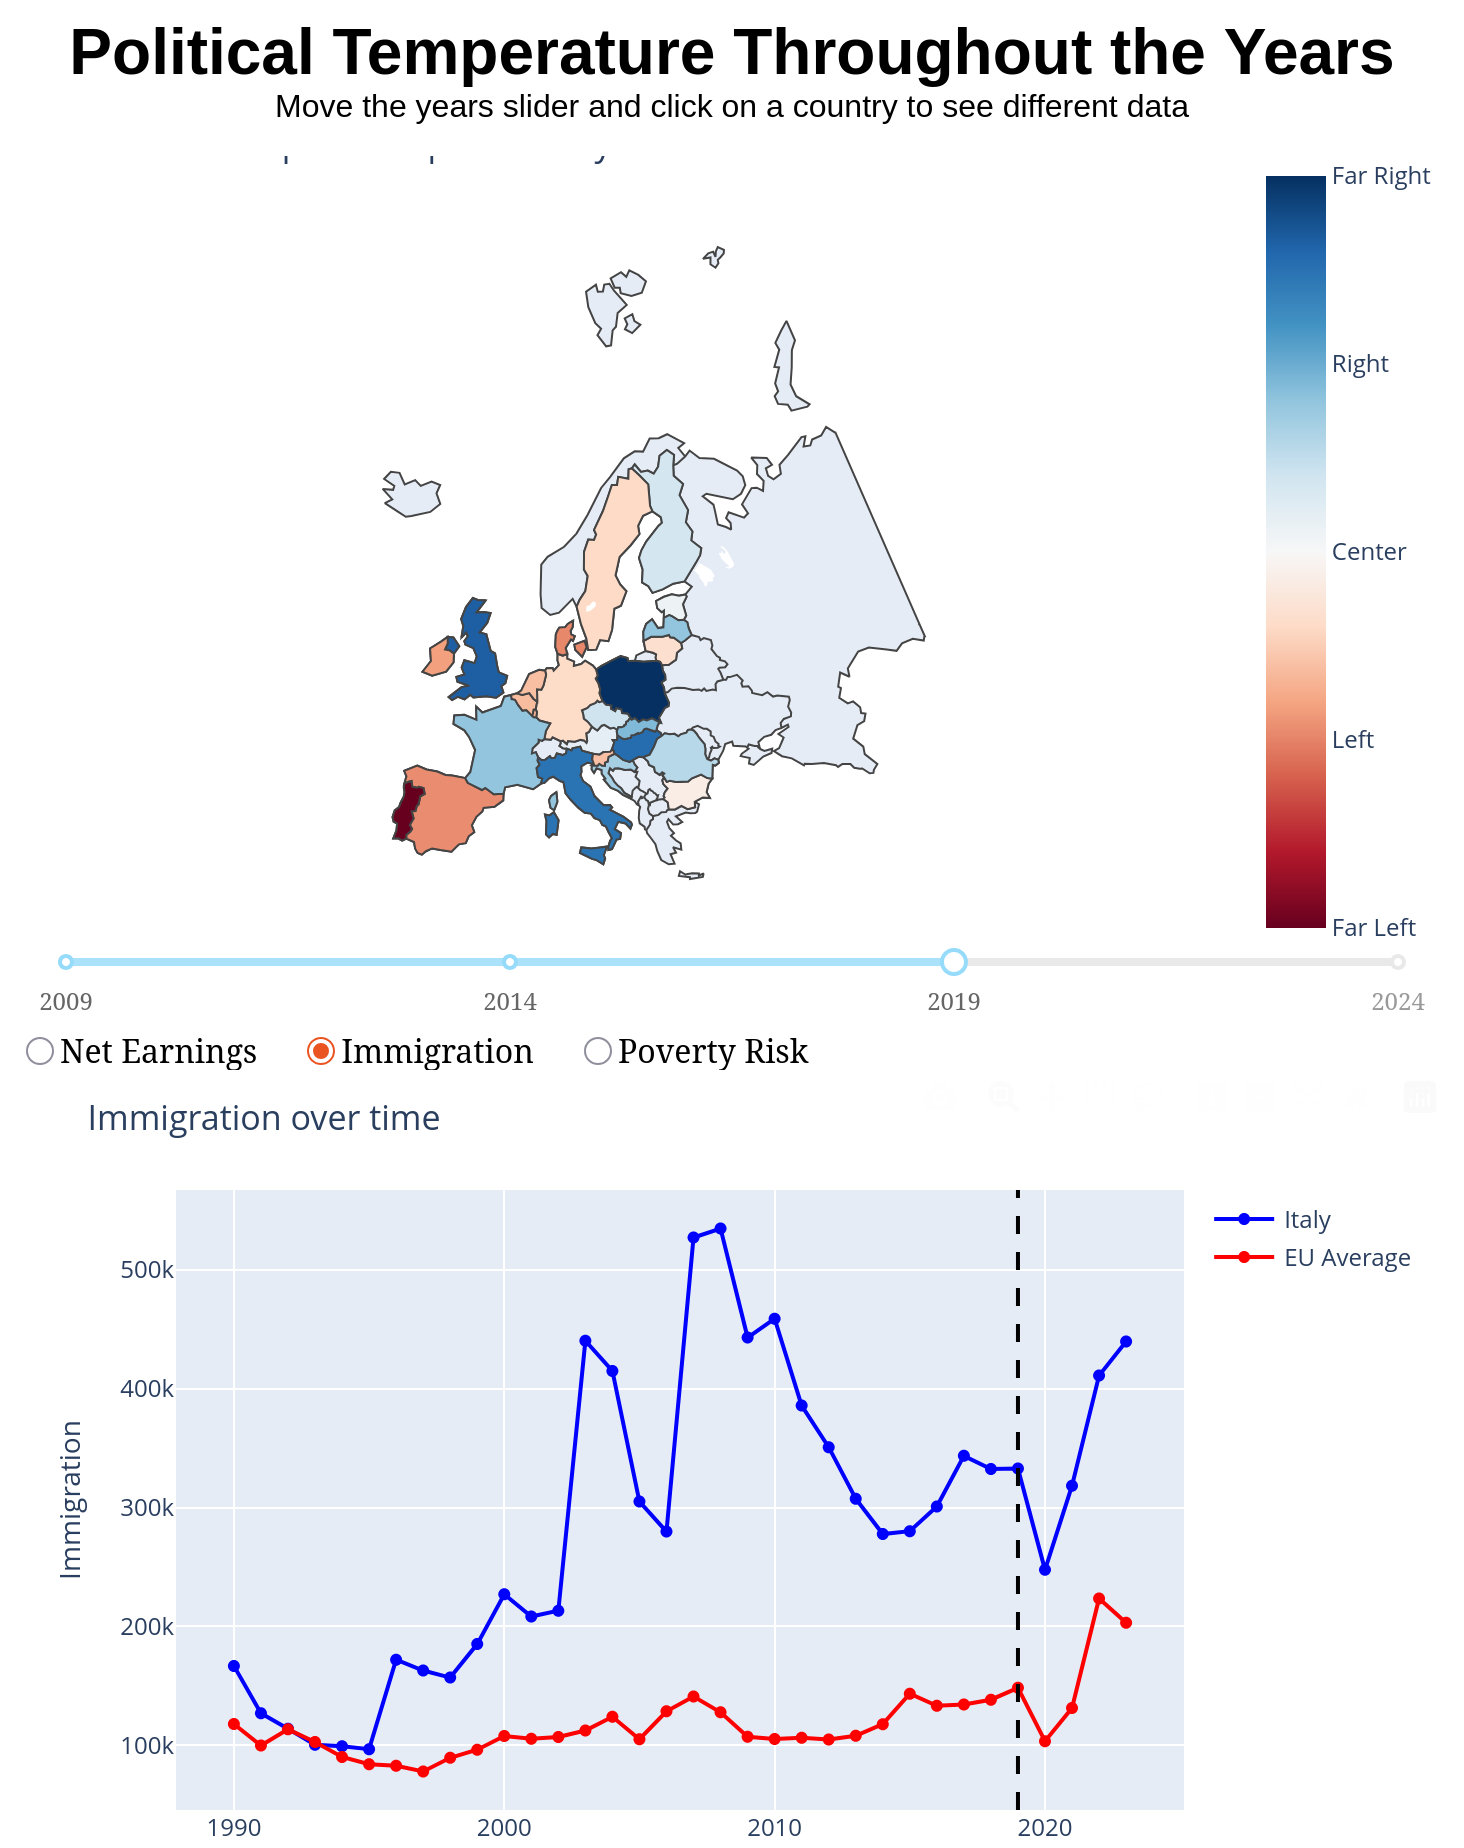
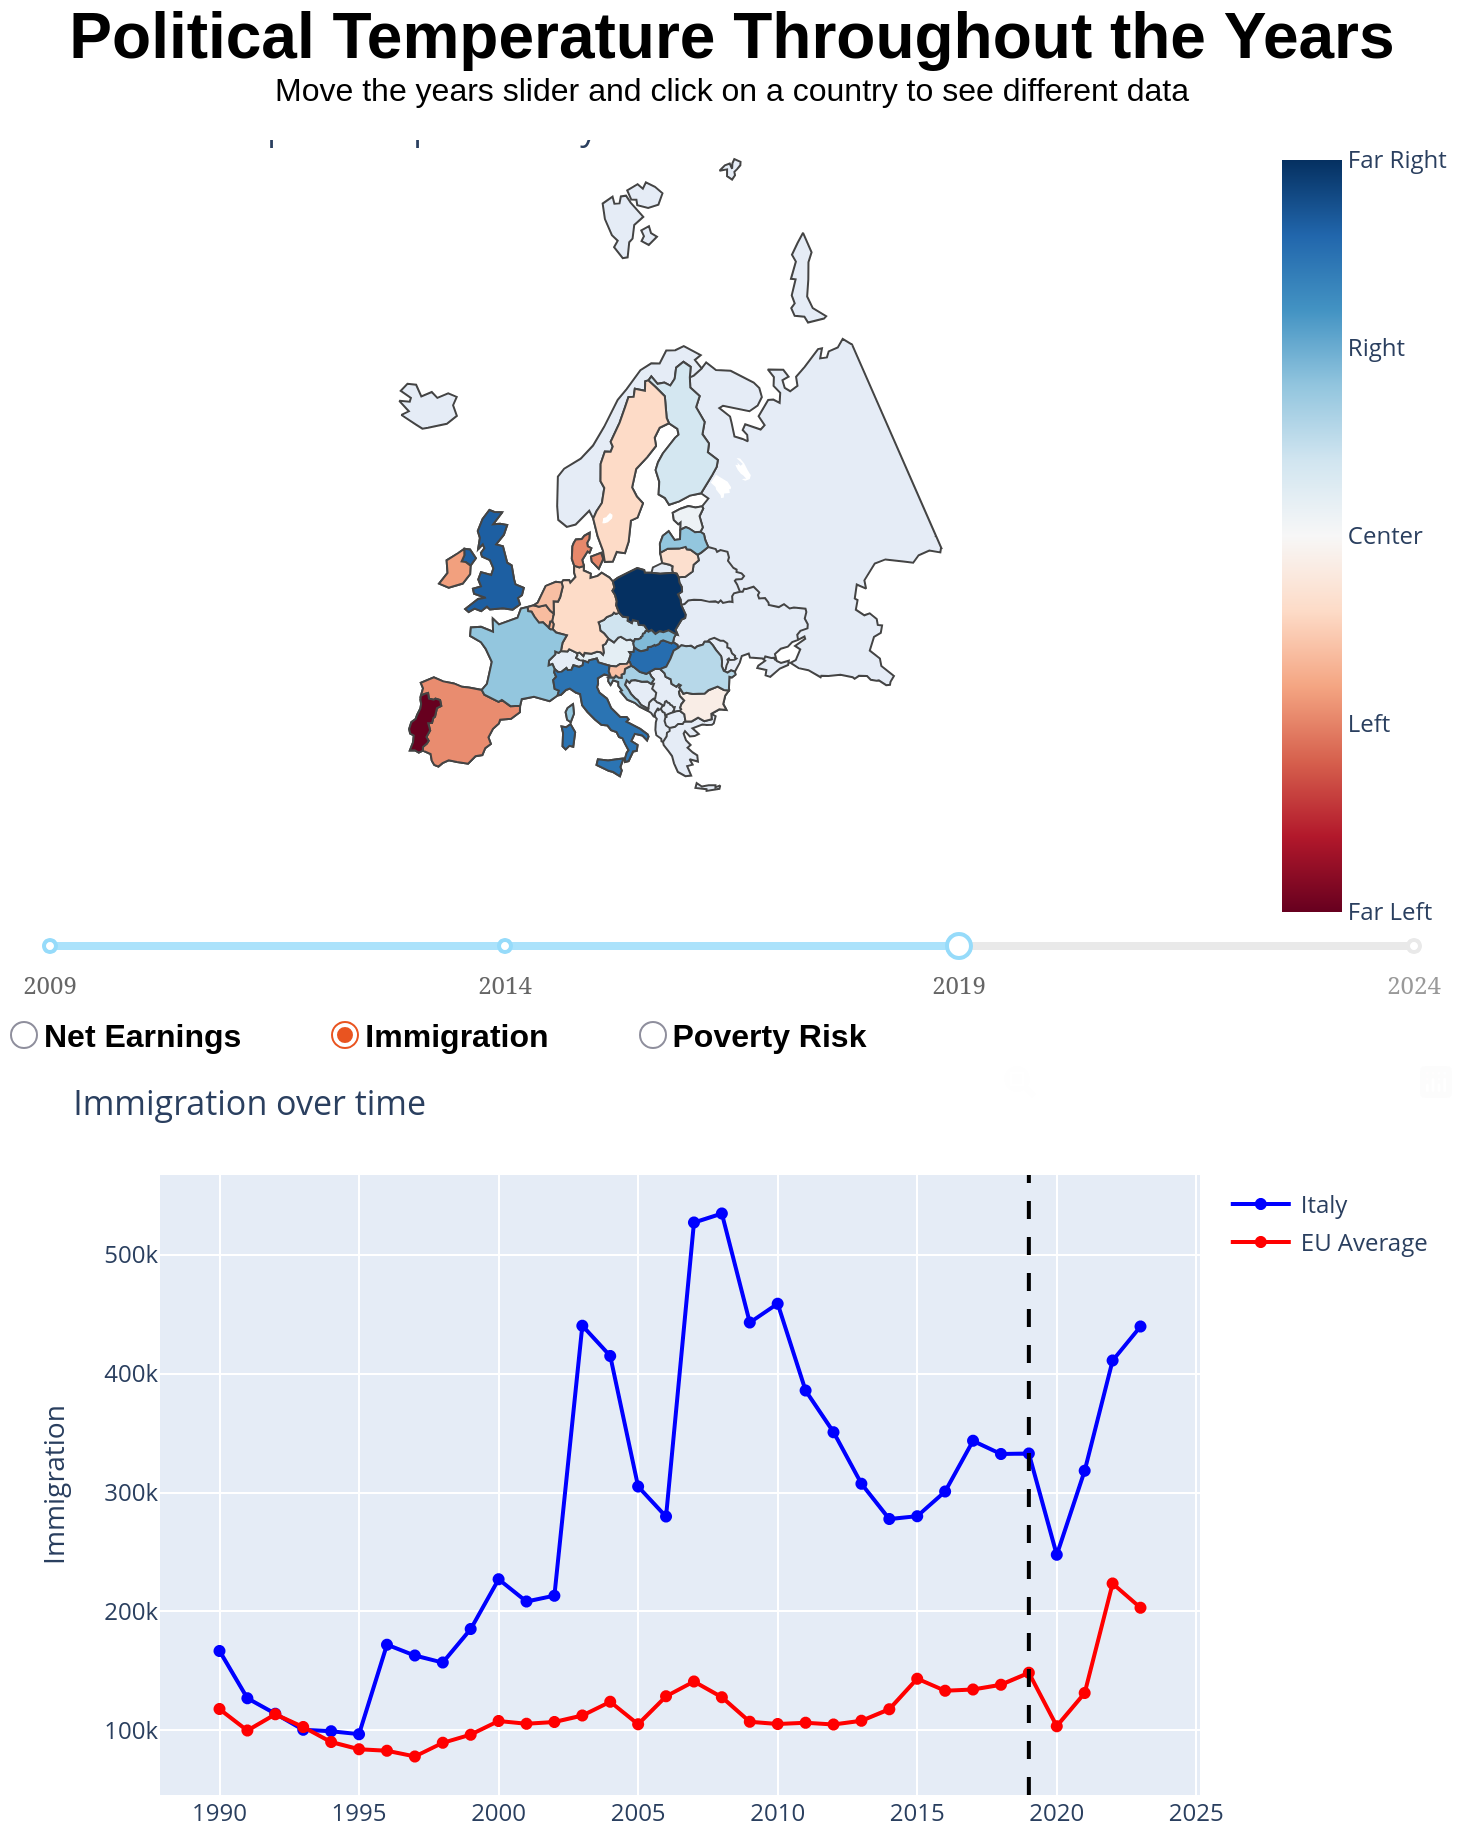
radioitems arial

diff --git a/project/graph_maker.py b/project/graph_maker.py
@@ -101,9 +101,15 @@ app.layout = html.Div([
             id='linegraph_selector',
             options=[{'label': name, 'value': name} for name in linegraph_datasets.keys()],
             value='Net Earnings',  # default selection
-             labelStyle={'display': 'inline-block', 'marginRight': '20px'}
+            labelStyle={
+                'display': 'inline-block', 
+                'marginRight': '40px',
+                'fontFamily': 'Arial',
+                'fontWeight': 'bold',
+                 
+            }
         ),
-    ], style={'height':'2.15vh'}),
+    ], style={'height':'2.17vh'}),
     html.Div([
         dcc.Graph(id='linegraph')
     ], style={'height':'45vh'})

diff --git a/README.md b/README.md
@@ -6,7 +6,7 @@ Interactive Data Visualization Course, Master in Data Science at University of H
 
 ![](./project/imgs/data_visualizer.png)
 
-A video showcase of the visualizer can be found at this [link](https://youtube.com/shorts/n-uEkY1vBSY?feature=share).
+A video showcase of the visualizer can be found at this [link](https://youtube.com/shorts/L3-hME7Yt54?feature=share).
 
 ### Usage
 
